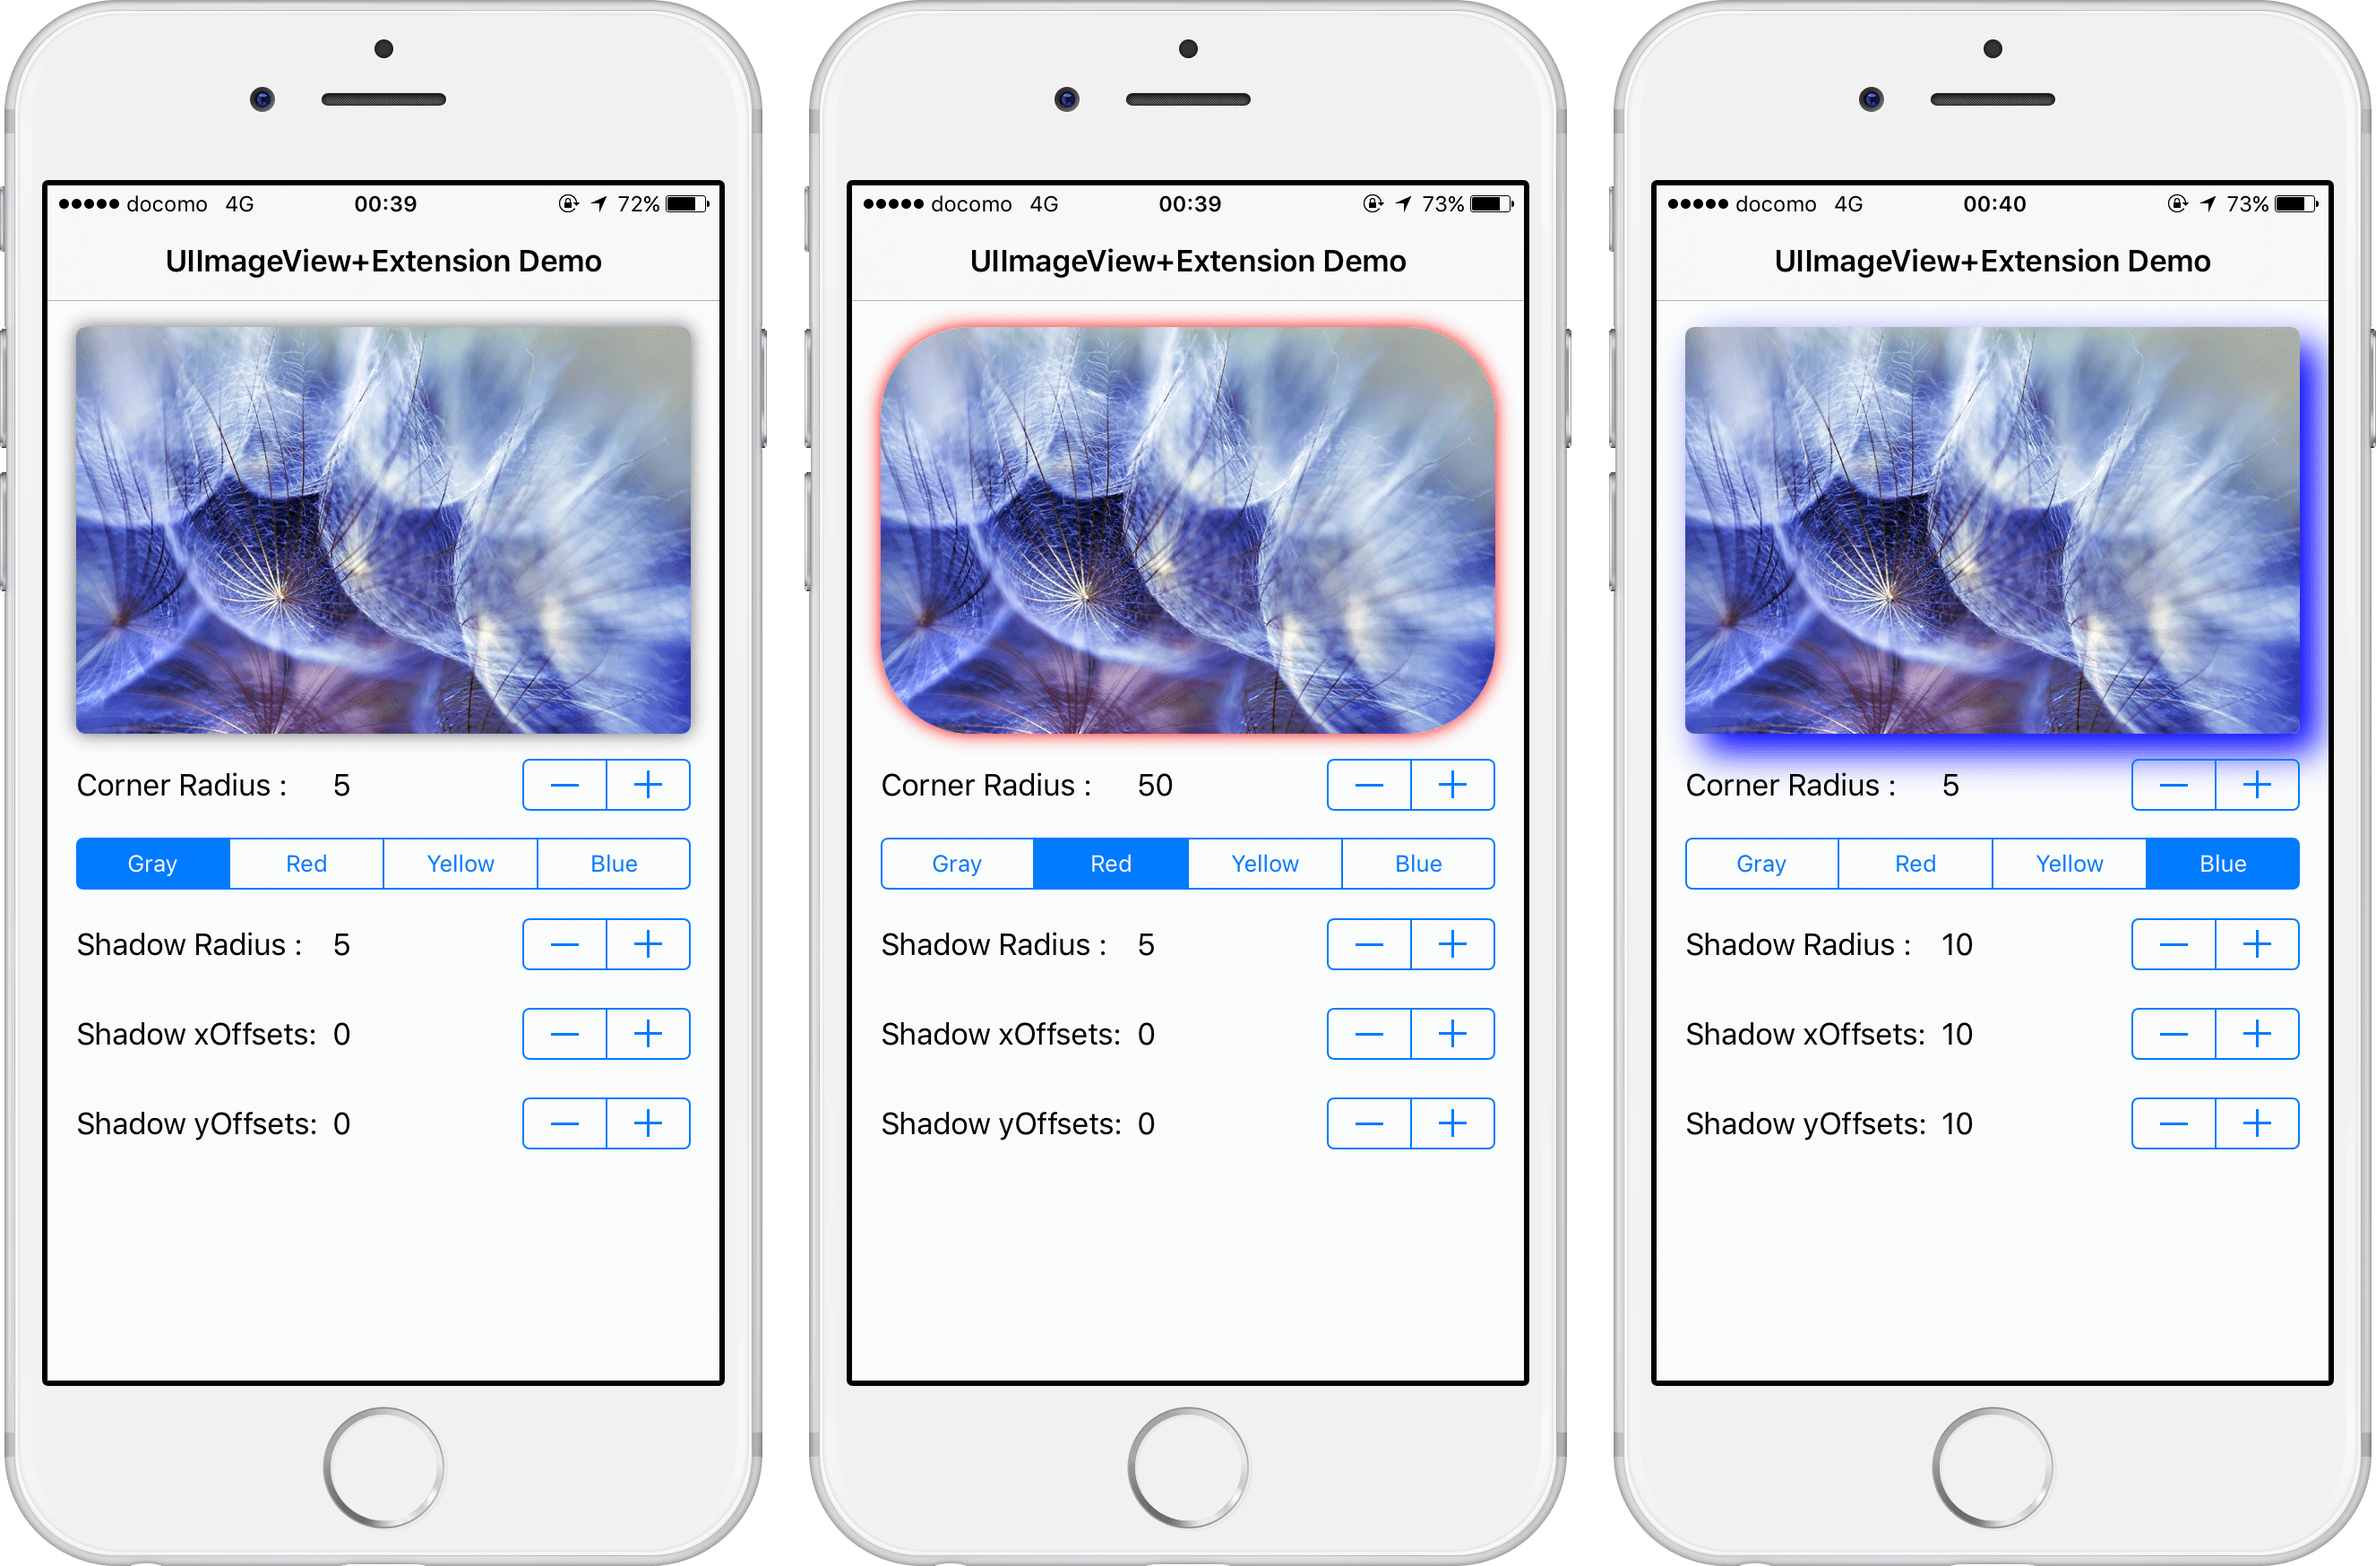
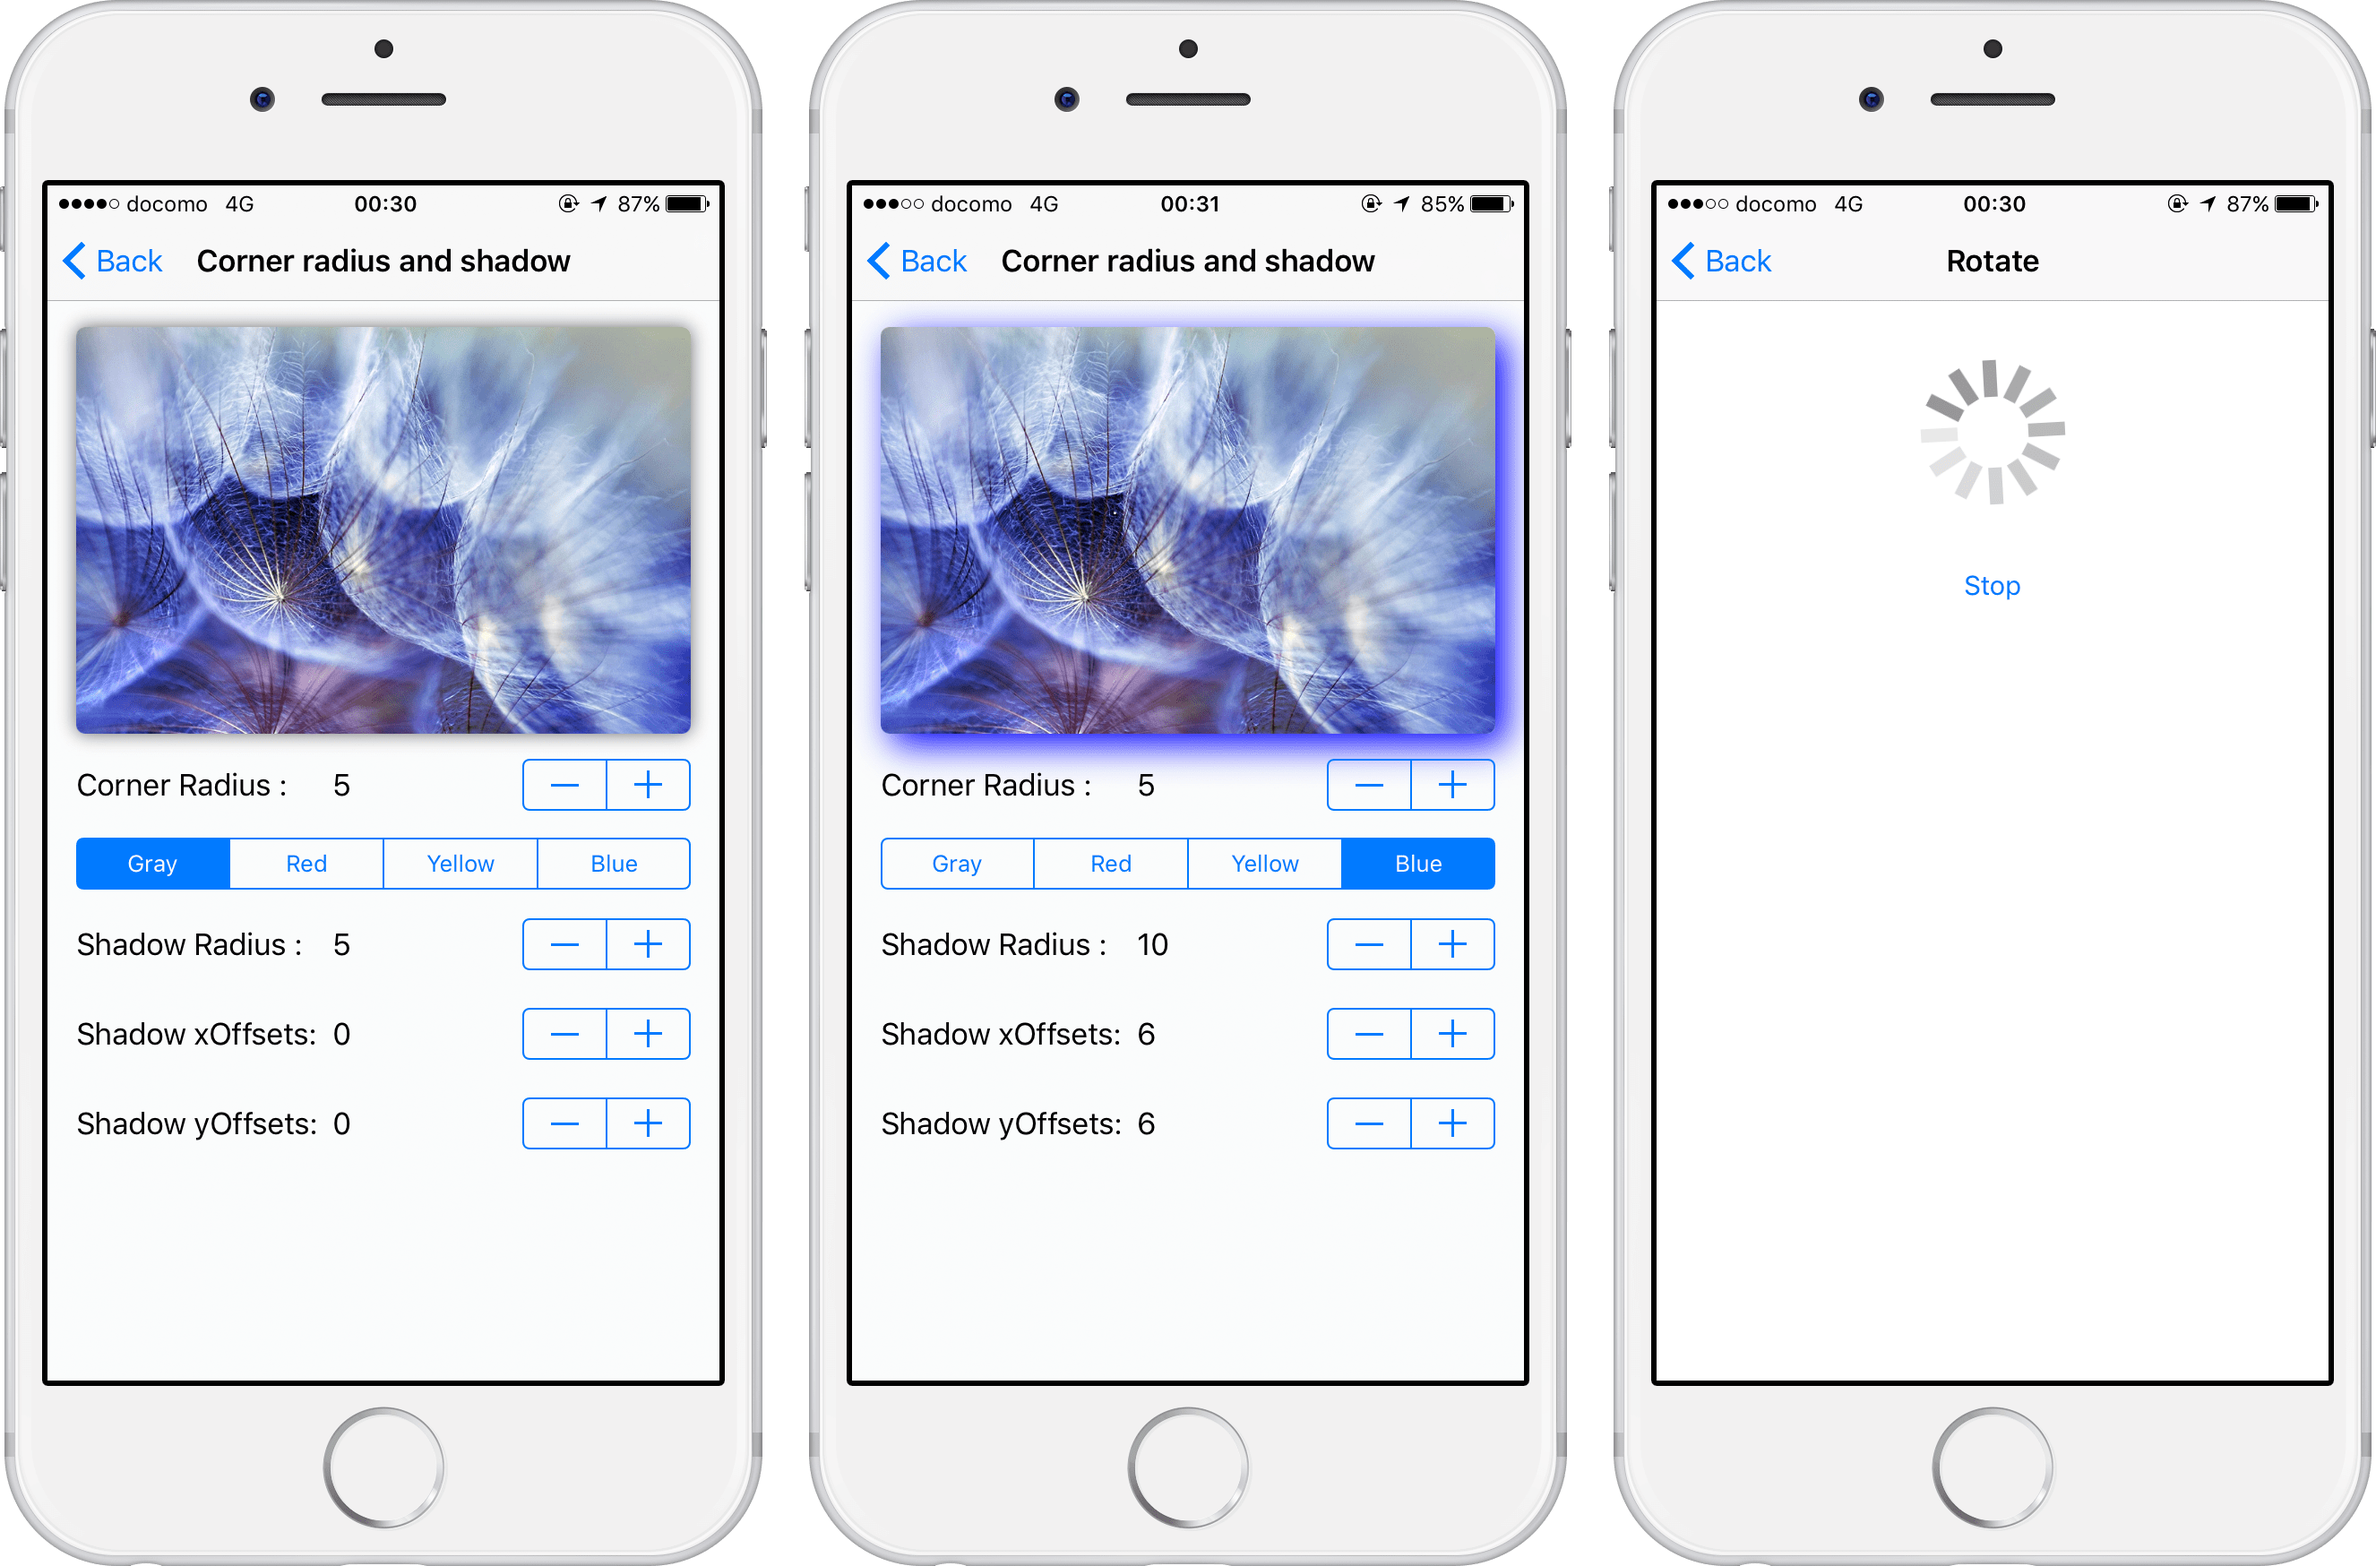
Update to version 0.2.1

diff --git a/README.md b/README.md
@@ -6,6 +6,7 @@ A simple UIImageView category with some extension functions.
 - Support Interface Builder.
 - Set border radius for image view.
 - Set shadow for image view.
+- Rotate image view.
 
 # Installation
 
@@ -29,10 +30,18 @@ pod 'UIImageView+Extension', '~> 0.2'
 
 - If you want to control your image view in your program, you should import the category header: `#import "UIImageView+Extension.h"` to your `.h` or `.m` file.
 
+# API Document
+### Corner Radius
+
 ```objective-c
 // Set corner radius.
 [_imageView setImageCornerRadius:5.0];
+```
 
+### Shadow
+The method `setShadowWithColor:shadowXOffset:shadowYOffset:shadowRadius:`should be invoked before you invoke methods including `changeShadowColor:color`, `changeShadowXOffset:xOffset`, `changeShadowYOffset:yOffset` and `changeShadowRadius:radius`.
+
+```objective-c
 // Init a shadow with color, offset and raduis.
 [_imageView setShadowWithColor:[UIColor darkGrayColor]
                  shadowXOffset:0
@@ -46,14 +55,26 @@ pod 'UIImageView+Extension', '~> 0.2'
 [_imageView changeShadowYOffset:1.0];
 ```
 
-- The method `setShadowWithColor:shadowXOffset:shadowYOffset:shadowRadius:`should be invoked before you invoke methods including `changeShadowColor:color`, `changeShadowXOffset:xOffset`, `changeShadowYOffset:yOffset` and `changeShadowRadius:radius`.
+### Rotate
+You can rotate a image view infinitely by the method `startRotate:withClockwise:`, the first parameter is rotation time per 1 round, the second parameter decides this rotation is clockwise or anticlockwise. 
+
+```objective-c
+// Init a shadow with color, offset and raduis.
+[_imageView startRotate:2 withClockwise:NO];
+
+// Change shadow color, offset and radius.
+[_imageView stopRotate];
+```
 
 # Demo App
-A demo project contained in this repository shows how to use it from a storyboard.
+A demo project contained in this repository shows how to use UIImageView+Extension from a storyboard.
 
 ![Demo App](https://raw.githubusercontent.com/lm2343635/UIImageView-Extension/master/Screenshoots/DemoApp.png)
 
 # Change log
+* version 0.2.1
+  * Rotate image view infinitely.
+
 * version 0.2.0
   * Support Interface Builder.
   * Support changing shadow style.
